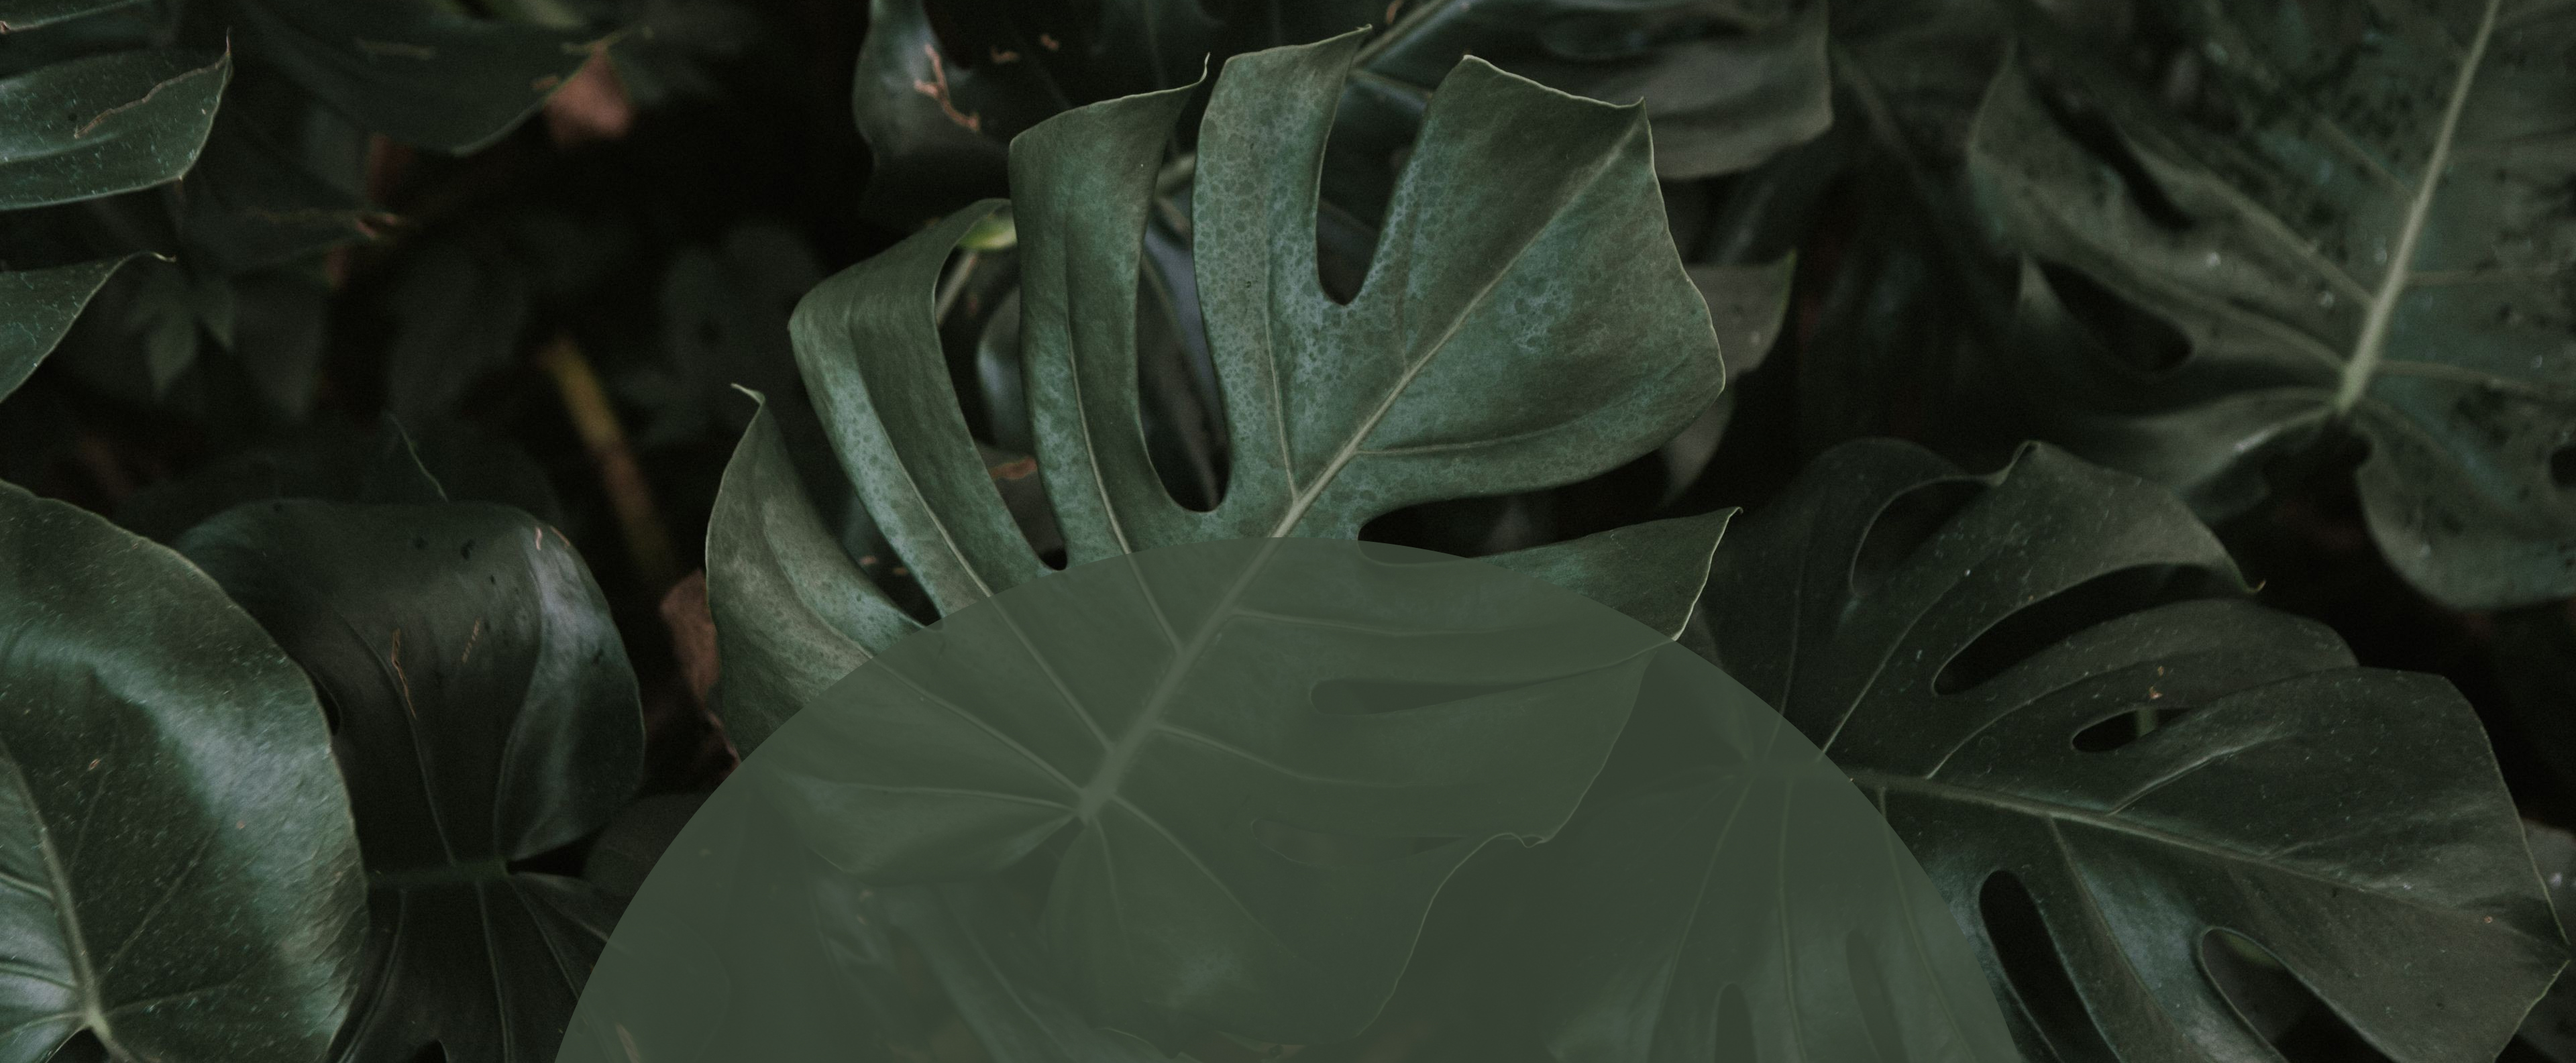
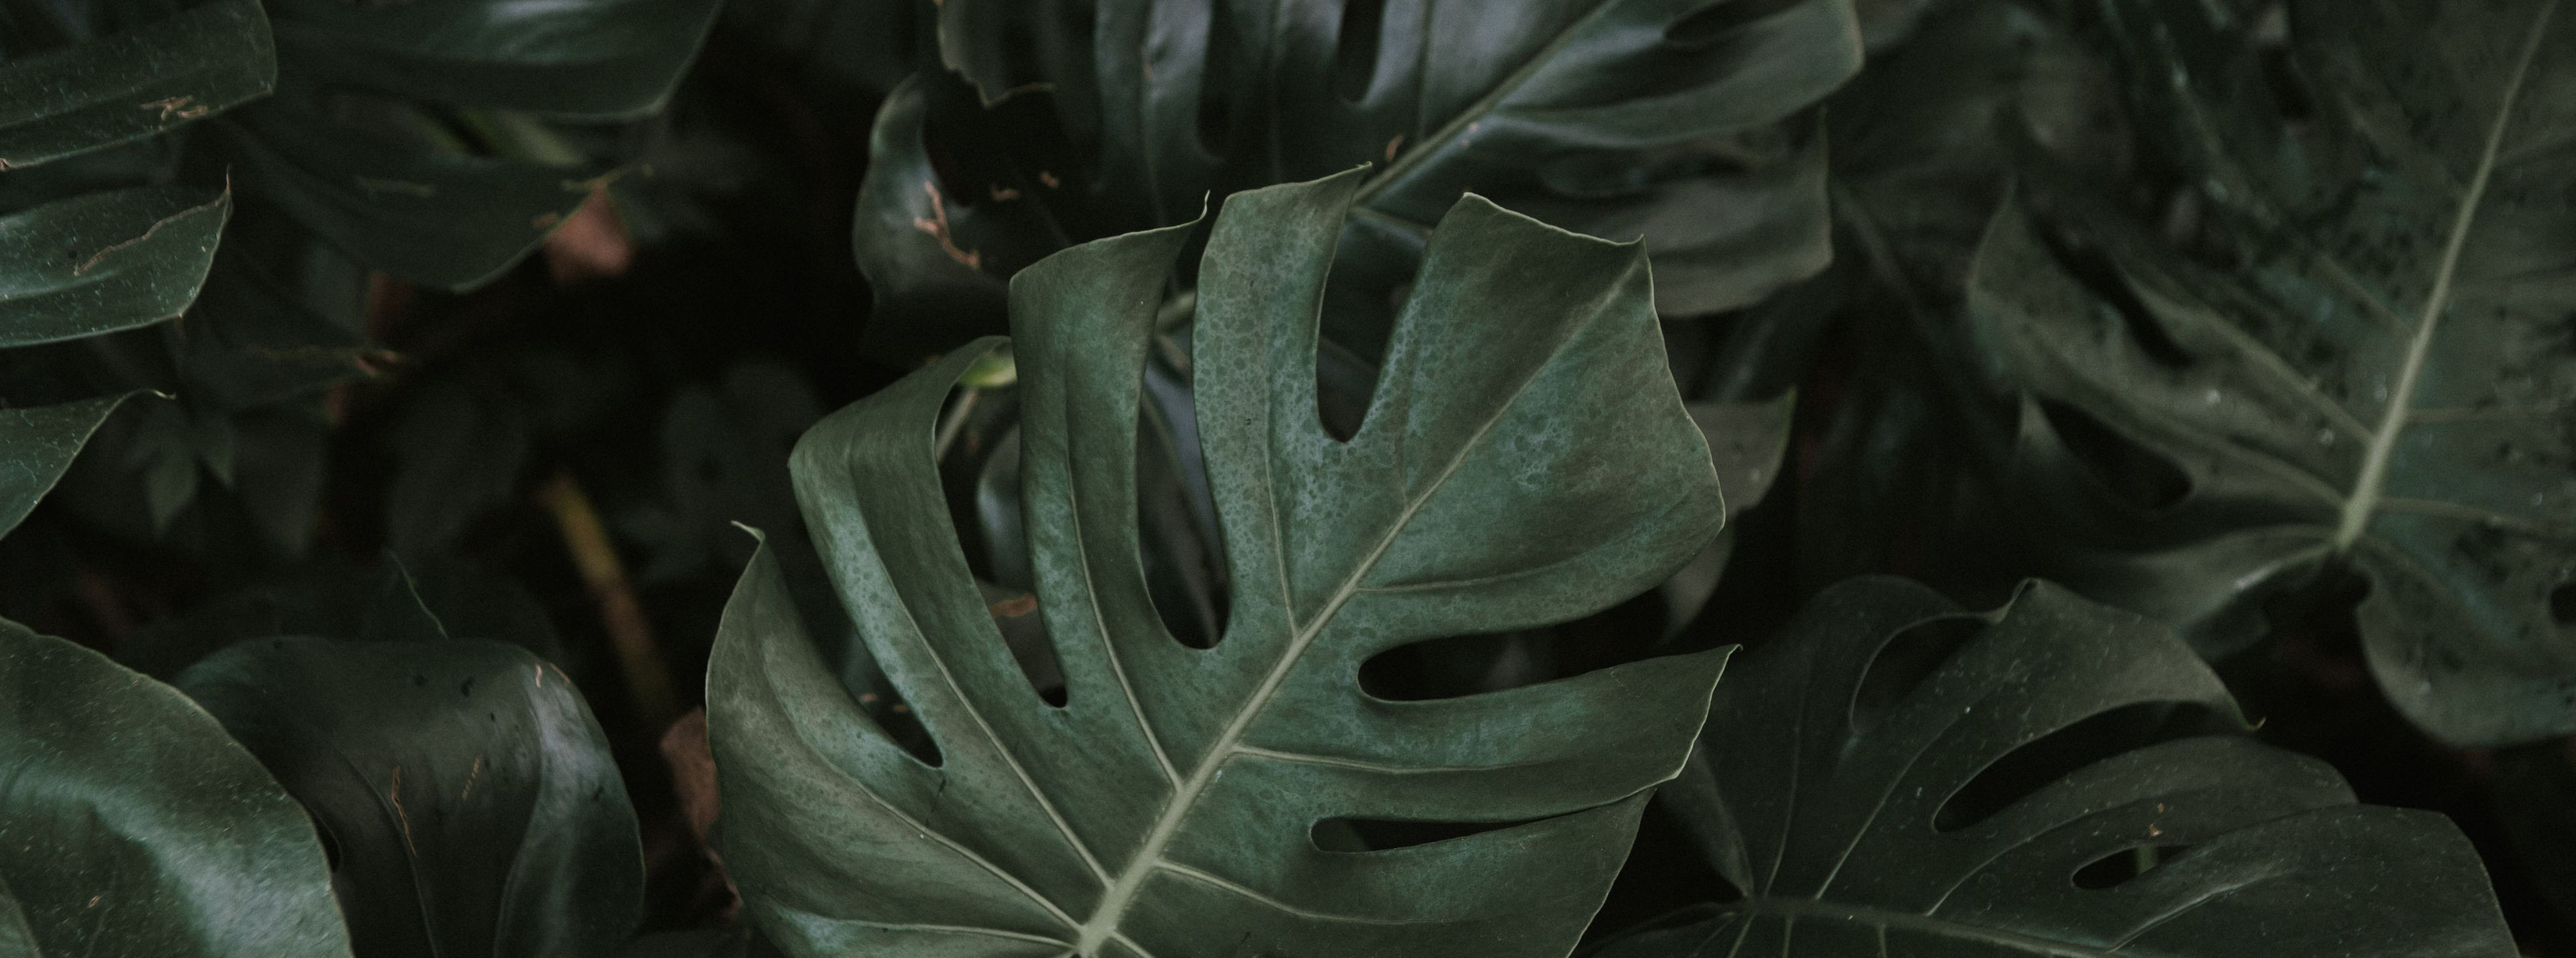
Semi-final designfixes

diff --git a/index.html b/index.html
@@ -20,6 +20,7 @@
     <div id="app">
 
         <header>
+            <div class="semiCircle"></div>
             <img src="Header.jpg" alt="">
             <h1 class="title">{{ projectTitle }}</h1>
             <h2 class="subTitle">{{ subTitle }}</h2>
@@ -73,11 +74,10 @@
                                 </button>
                             </label>
     
-                            <div v-if="plantInfoVisible[myPlant.commonName]">
-                                <p>Watering Schedule: {{ myPlant.wateringSchedule }}</p>
+                            <div v-if="plantInfoVisible[myPlant.commonName]" class="plantInformation">
                                 <p>Sunlight Requirement: {{ myPlant.sunlightRequirement }}</p>
-                                <p>Poisonous: {{ myPlant.poisonous ? 'Yes' : 'No' }}</p>
-                                <p>Needs water: {{ myPlant.needsWater ? 'Yes' : 'No' }}</p>
+                                <p>Poisonous: {{ myPlant.poisonous ? 'Yes' : 'No' }} | Needs water: {{ myPlant.needsWater ? 'Yes' : 'No' }}</p>
+                                <p>Watering Schedule: {{ myPlant.wateringSchedule }}</p>
                                 <p>Last watered: {{ convertTimestamp(myPlant.lastWateredTime) }}</p>
                             </div>
                         </li>

diff --git a/stylesheet.css b/stylesheet.css
@@ -56,6 +56,20 @@ header {
     text-align: center;
     justify-content: center;
     border-radius: 20px;
+    position: relative; 
+}
+
+.semiCircle {
+    position: absolute; 
+    bottom: 0; 
+    left: 50%; 
+    transform: translateX(-50%); 
+    width: 30em;
+    height: 15em;
+    color: #767676;
+    background-color: #0c2c0d87;
+    border-radius: 30em 30em 0 0;
+    z-index: 2;
 }
 
 /* Image styling */
@@ -72,8 +86,9 @@ img {
 #app .title,
 #app .subTitle {
     grid-column: 1;
-    z-index: 1;
+    z-index: 2;
     color: #ffffff;
+    position: relative; /* Lägg till relativ position för att hantera z-index */
 }
 
 #app .title {
@@ -129,7 +144,7 @@ img {
 
 /* MyPlants styling */
 .myPlants {
-    font-size: 25px;
+    font-size: 28px;
     margin: 0;
     padding: 0;
     color: var(--main-color);
@@ -167,6 +182,10 @@ input#plant-display-text {
     border-style: none;
 }
 
+.plantInformation p {
+    margin: 5px;
+}
+
 /* List styling */
 ul.my-plants,
 ul.plant-filters,
@@ -189,7 +208,8 @@ ul.plant-list {
 }
 
 ul.my-plants h3 {
-    margin: 4px;
+    margin: 6px;
+    font-size: 20px;
 }
 
 ul.my-plants label {

diff --git a/main.js b/main.js
@@ -21,7 +21,6 @@ Vue.createApp({
             plantInfoVisible: {},
             filter: 'all',
             searchedPlant: '',
-
         };
     },
     methods: {
